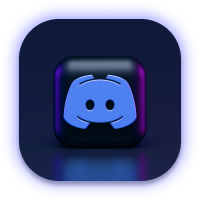
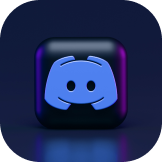
update

diff --git a/all.css b/all.css
@@ -257,21 +257,23 @@ a {
 }
 
 .contact ul {
-  margin-left: 108px;
+  margin-left: 92px;
   display: flex;
   align-items: center;
 }
 
+.contact li {
+  margin-left: 20px;
+}
+
 .contact li img {
-  height: 162px;
+  border-radius: 40px;
+  box-shadow: 0px 4px 4px 0px rgba(0, 0, 0, 0.25);
+  transition: all .3s;
 }
 
-.contact li .hover_img {
-  height: 176px;
-}
-
-.contact li .default_img {
-  margin-top: 8px;
+.contact li img:hover {
+    box-shadow: 0px 0px 16px 3px rgba(144, 148, 255, 0.9);
 }
 
 .project {
